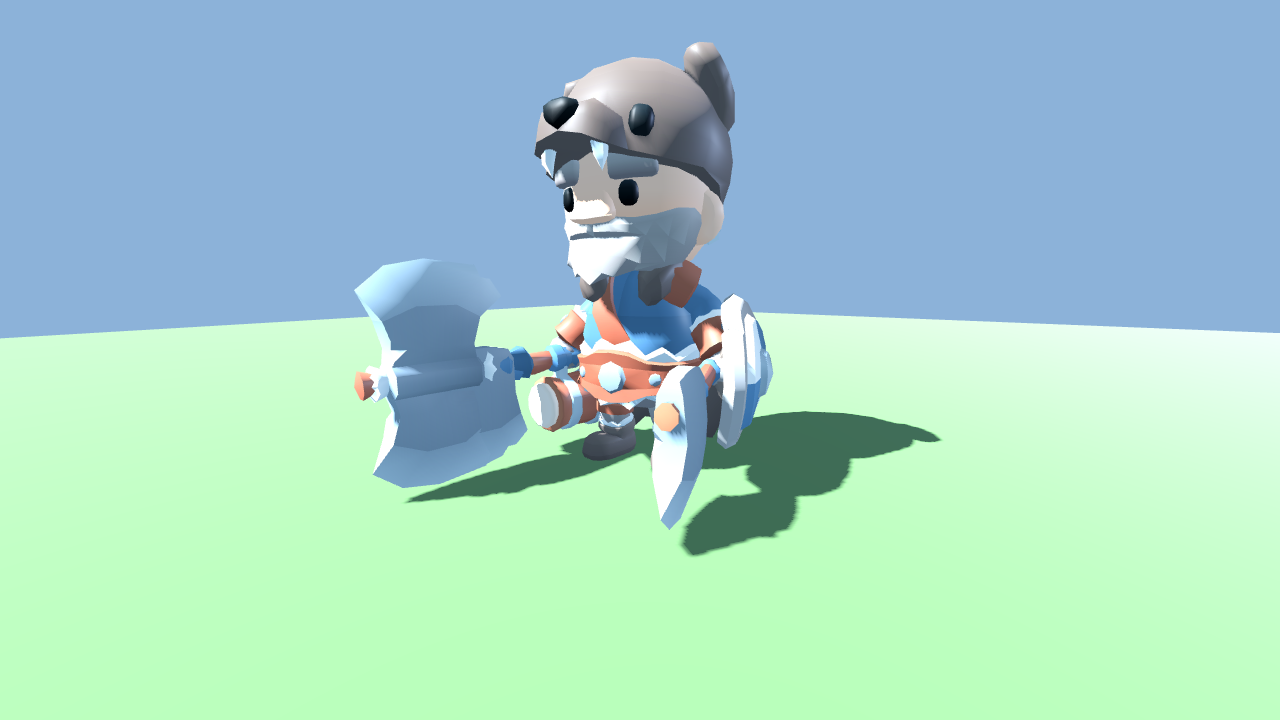
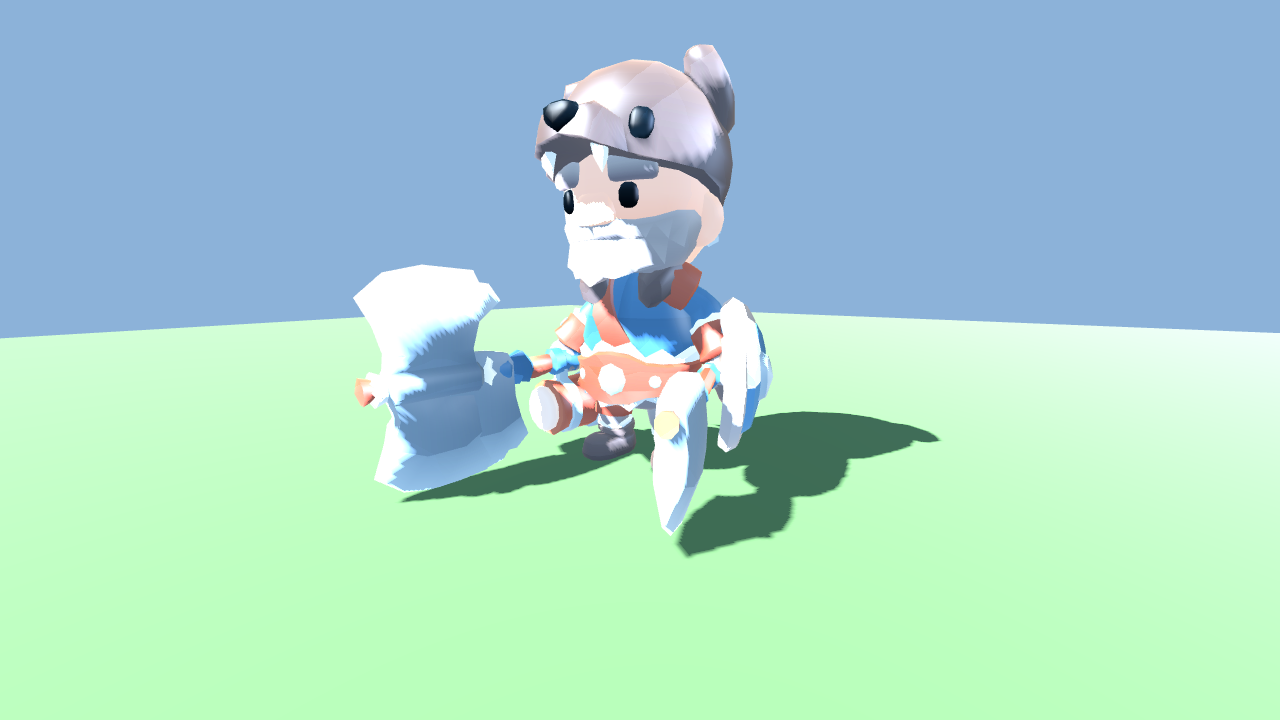
Cel-shade les modèles KayKit + intègre le héros FPS + test de game feel
- Nouveau shader toon texturé (`shaders/toon_textured.gdshader`) appliqué à
  chaque surface des modèles KayKit via `KayKitRig._apply_toon()` (override
  ShaderMaterial réutilisant la texture d'albédo) → look cartoon homogène.
- Le héros FPS (`player.gd`) utilise désormais le modèle KayKit `Barbarian.glb`
  (comme le péon/ouvrier), avec fallback UnitRig.
- `tests/test_game_feel.gd` : valide cel-shader sur toutes les surfaces, clips
  walk/attack/death, `FX.hit_stop` (freeze-frame) et `FX.burst` (particules).
- Régénère les captures de preuve (cel-shaded) dans docs/screenshots/.

Changed region(s): [[0.25, 0.0611, 0.625, 0.7944], [0.6562, 0.6417, 0.6875, 0.6722]]

diff --git a/AGENTS.md b/AGENTS.md
@@ -67,11 +67,16 @@ Le binaire `godot` est dans `~/bin` (export `PATH="$HOME/bin:$PATH"`).
 - `fx.hit_stop()` fige brièvement le temps (`Engine.time_scale`) sur les coups/abattages
   (timer *unscaled* pour reprendre tout seul).
 
-## Assets & animation réelles (v1.3)
+## Assets & animation réelles (v1.3 → v1.4)
 
 - **Unités = vrais modèles KayKit (CC0)** intégrés au gameplay via `kaykit_rig.gd` :
-  péon/ouvrier = `Barbarian.glb`, grunt allié = `Knight.glb`, grunt ennemi =
-  `Skeleton_Warrior.glb` (variantes `Mage`, `Rogue_Hooded`, `Skeleton_Minion` dispo).
+  péon/ouvrier = `Barbarian.glb`, **héros FPS (player.gd) = `Barbarian.glb`**,
+  grunt allié = `Knight.glb`, grunt ennemi = `Skeleton_Warrior.glb` (variantes
+  `Mage`, `Rogue_Hooded`, `Skeleton_Minion` dispo).
+- **Cel-shading sur les modèles** : `shaders/toon_textured.gdshader` (version
+  texturée de `toon.gdshader`) est appliqué à chaque surface via
+  `KayKitRig._apply_toon()` (override `ShaderMaterial` + texture d'albédo
+  d'origine) → look « cartoon Warcraft » homogène avec le monde procédural.
 - Chaque GLB embarque sa **bibliothèque d'animations** (Idle, Walking_A/B/C, Running,
   `1H_Melee_Attack_*`, `Death_A`, Hit, Jump…). `kaykit_rig.gd` mappe : idle/walk via
   `update_animation()`, attaque via `swing_tool()` (anim one-shot), mort via `play_death()`.
@@ -88,6 +93,10 @@ Le binaire `godot` est dans `~/bin` (export `PATH="$HOME/bin:$PATH"`).
   --path . --script res://tests/capture_showcase.gd` (nécessite `xvfb` + Mesa GL).
 - `main.gd` a un hook `PEON_SHOT=<path>` qui capture le jeu (caméra 3ᵉ personne
   orientée vers la base) après 45 frames puis quitte.
+- `tests/test_game_feel.gd` valide le **game feel** : cel-shader appliqué à
+  toutes les surfaces du modèle, clips walk/attack/death présents, `FX.hit_stop`
+  (freeze-frame) et `FX.burst` (particules d'impact). `tests/test_skeletal.gd`
+  valide l'import des GLB de référence.
 
 ## Gameplay FPS (refonte)
 
